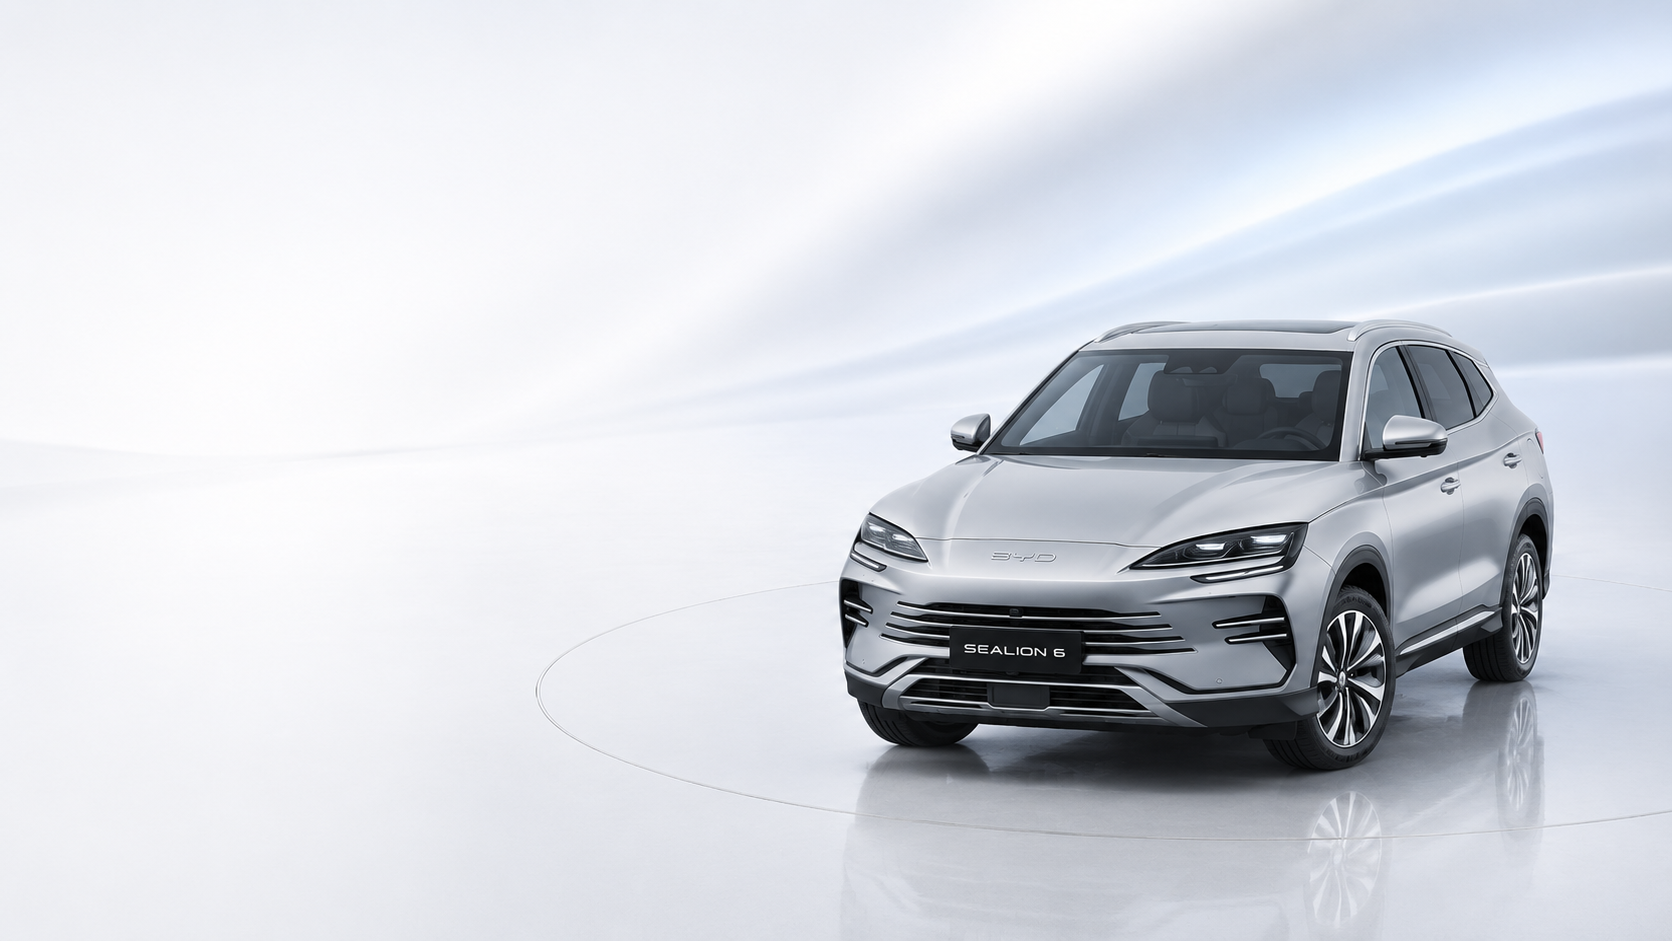
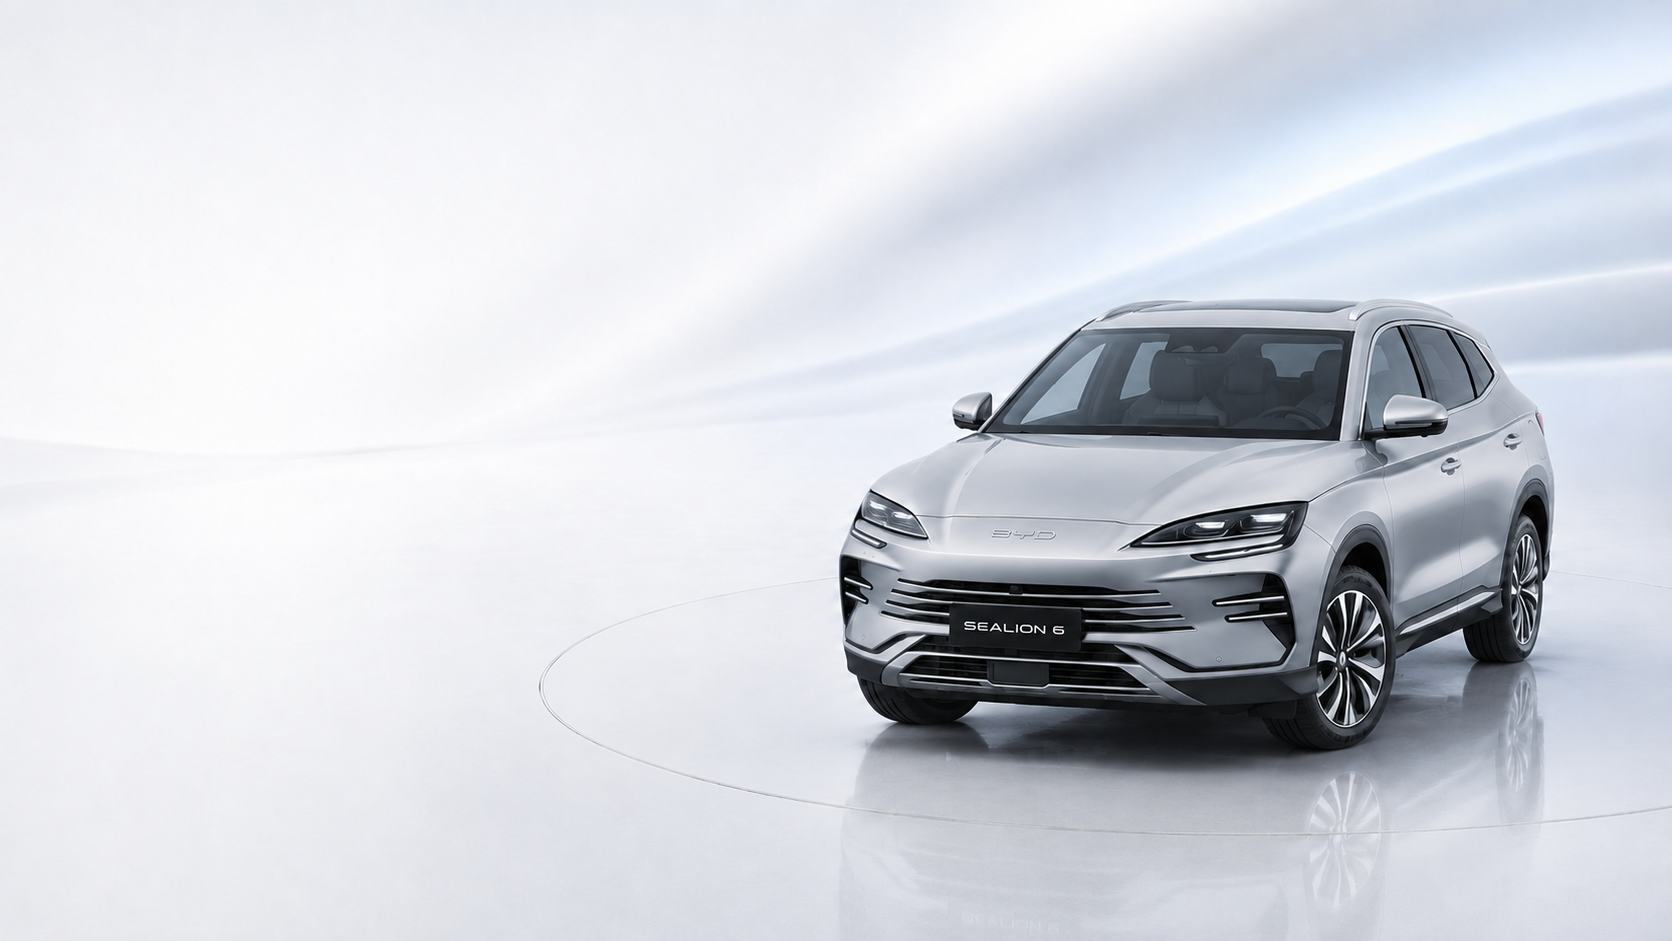
commit

Changed region(s): [[0.4976, 0.3082, 0.933, 0.8937]]

diff --git a/lib/main.dart b/lib/main.dart
@@ -475,9 +475,12 @@ Brightness _effectiveBrightnessForTheme(ThemeMode mode) {
 }
 
 void _showSystemBars() {
-  // BYD/DiLink draws its own black bar surface when the app stays edge-to-edge.
-  // Keep Android system bars visible in normal fitted mode so the real bar
-  // background can follow Light/Dark mode and the bottom dock is not covered.
+  // BYD/DiLink keeps its own top/bottom shell bars visible. Do NOT use
+  // edgeToEdge here: Flutter's edgeToEdge re-adds LAYOUT_FULLSCREEN /
+  // LAYOUT_HIDE_NAVIGATION flags after native code applies bar colors, and on
+  // the BYD head unit that leaves the OEM black bar surface in Light mode.
+  // Keep the overlays visible in manual mode; MainActivity owns the actual
+  // light/dark bar colors and icon flags.
   unawaited(
     SystemChrome.setEnabledSystemUIMode(
       SystemUiMode.manual,
@@ -499,6 +502,9 @@ void _applySystemBarsForTheme(ThemeMode mode) {
 
   SystemChrome.setSystemUIOverlayStyle(
     SystemUiOverlayStyle(
+      // BYD/DiLink does not always honor transparent bars in Light mode. Use an
+      // opaque theme-matched bar color, then Android light-bar flags make icons
+      // dark. This avoids the OEM black status bar while preserving layout.
       statusBarColor: dark ? const Color(0xFF070B12) : const Color(0xFFF1F5FA),
       statusBarIconBrightness: dark ? Brightness.light : Brightness.dark,
       statusBarBrightness: dark ? Brightness.dark : Brightness.light,
@@ -1903,40 +1909,43 @@ class _LauncherHomePageState extends State<_LauncherHomePage>
     return Scaffold(
       backgroundColor: Theme.of(context).scaffoldBackgroundColor,
       resizeToAvoidBottomInset: false,
-      body: MediaQuery.removePadding(
-        context: context,
-        removeTop: true,
-        removeBottom: true,
-        removeLeft: true,
-        removeRight: true,
-        child: Container(
-          width: double.infinity,
-          height: double.infinity,
-          // BYD/DiLink keeps a persistent system/control bar at the bottom.
-          // Only reserve the bottom inset. The top status/header bar is already
-          // outside the Flutter fitted area; adding viewPadding.top here creates
-          // the visible white strip under the OEM header in Light mode.
-          margin: EdgeInsets.only(
-            bottom: MediaQuery.viewPaddingOf(context).bottom,
+      body: Container(
+        width: double.infinity,
+        height: double.infinity,
+        decoration: BoxDecoration(
+          gradient: RadialGradient(
+            center: const Alignment(0.40, -0.25),
+            radius: 1.18,
+            colors: light
+                ? const [
+                    Color(0xFFFFFFFF),
+                    Color(0xFFF1F6FC),
+                    Color(0xFFDCE7F2),
+                  ]
+                : const [
+                    Color(0xFF202A38),
+                    Color(0xFF0B111A),
+                    Color(0xFF05070C),
+                  ],
           ),
-          decoration: BoxDecoration(
-            gradient: RadialGradient(
-              center: const Alignment(0.40, -0.25),
-              radius: 1.18,
-              colors: light
-                  ? const [
-                      Color(0xFFFFFFFF),
-                      Color(0xFFF1F6FC),
-                      Color(0xFFDCE7F2),
-                    ]
-                  : const [
-                      Color(0xFF202A38),
-                      Color(0xFF0B111A),
-                      Color(0xFF05070C),
-                    ],
+        ),
+        child: MediaQuery.removePadding(
+          context: context,
+          removeTop: true,
+          removeBottom: true,
+          removeLeft: true,
+          removeRight: true,
+          child: Padding(
+            // In edge-to-edge mode, reserve the visible BYD header/footer only
+            // for interactive content. The background container remains full
+            // screen, so Light mode does not create a white strip or get cut.
+            padding: EdgeInsets.only(
+              // In normal visible-system-bar mode, BYD/Android already places
+              // the Flutter surface below the top shell bar. Adding top padding
+              // again creates the white gap seen on the head unit.
+              bottom: MediaQuery.viewPaddingOf(context).bottom,
             ),
-          ),
-          child: Stack(
+            child: Stack(
             children: [
               Positioned.fill(
                 child: LayoutBuilder(
@@ -2099,8 +2108,9 @@ class _LauncherHomePageState extends State<_LauncherHomePage>
           ),
         ),
       ),
-    );
-  }
+    ),
+  );
+}
 
   void _handleTabChanged(_LauncherTab tab) {
     if (tab == _activeTab) return;

diff --git a/android/app/src/main/kotlin/com/kimkim/MainActivity.kt b/android/app/src/main/kotlin/com/kimkim/MainActivity.kt
@@ -1,8 +1,10 @@
 package com.kimkim
 
 import android.app.Activity
+import android.app.UiModeManager
 import android.content.Intent
 import android.content.ComponentName
+import android.content.res.Configuration
 import android.content.pm.PackageManager
 import android.provider.Settings
 import android.net.Uri
@@ -46,6 +48,9 @@ class MainActivity : FlutterActivity() {
     override fun onCreate(savedInstanceState: android.os.Bundle?) {
         super.onCreate(savedInstanceState)
         enableHomeComponentIfNeeded()
+        window.decorView.setOnSystemUiVisibilityChangeListener {
+            applyLauncherSystemUi()
+        }
         applyLauncherSystemUi()
     }
 
@@ -75,31 +80,62 @@ class MainActivity : FlutterActivity() {
         // Re-assert the latest launcher theme for a longer window so Light mode
         // survives OEM post-processing on the real head unit.
         systemUiHandler.post { applyLauncherSystemUiNow(dark) }
-        for (delay in listOf(80L, 250L, 900L, 1700L, 2600L)) {
+        for (delay in listOf(16L, 80L, 160L, 250L, 500L, 900L, 1700L, 2600L, 4200L, 6500L)) {
             systemUiHandler.postDelayed({ applyLauncherSystemUiNow(dark) }, delay)
         }
     }
 
+    private fun applyApplicationNightMode(dark: Boolean) {
+        // Some BYD/DiLink builds ignore Window.statusBarColor/navigationBarColor
+        // and choose the OEM top/bottom shell color from the app night-mode
+        // classification instead. Tell Android explicitly that this Activity is
+        // light/dark before re-applying the system bar colors.
+        if (android.os.Build.VERSION.SDK_INT >= android.os.Build.VERSION_CODES.S) {
+            try {
+                val uiModeManager = getSystemService(UiModeManager::class.java)
+                uiModeManager?.setApplicationNightMode(
+                    if (dark) UiModeManager.MODE_NIGHT_YES else UiModeManager.MODE_NIGHT_NO
+                )
+            } catch (_: Exception) {
+            }
+        }
+    }
+
     private fun applyLauncherSystemUiNow(dark: Boolean) {
-        val barOverlayColor = if (dark) {
+        applyApplicationNightMode(dark)
+        val transparent = android.graphics.Color.TRANSPARENT
+        val barColor = if (dark) {
+            android.graphics.Color.rgb(0x07, 0x0B, 0x12)
+        } else {
+            // Use pure white, not a semi-transparent/near-white color. Some
+            // BYD/DiLink builds ignore translucent or edge-to-edge bar colors
+            // and fall back to their black shell surface.
+            android.graphics.Color.WHITE
+        }
+        val backgroundColor = if (dark) {
             android.graphics.Color.rgb(0x07, 0x0B, 0x12)
         } else {
             android.graphics.Color.rgb(0xF1, 0xF5, 0xFA)
         }
-        val transparent = android.graphics.Color.TRANSPARENT
 
-        // BYD/DiLink keeps an OEM bar surface active if the launcher runs
-        // edge-to-edge. Use fitted visible system bars with an opaque launcher
-        // color so Light mode does not leave black top/bottom bars.
         window.clearFlags(
             WindowManager.LayoutParams.FLAG_FULLSCREEN or
                 WindowManager.LayoutParams.FLAG_TRANSLUCENT_STATUS or
                 WindowManager.LayoutParams.FLAG_TRANSLUCENT_NAVIGATION
         )
         window.addFlags(WindowManager.LayoutParams.FLAG_DRAWS_SYSTEM_BAR_BACKGROUNDS)
+        window.decorView.setBackgroundColor(backgroundColor)
+        if (android.os.Build.VERSION.SDK_INT >= android.os.Build.VERSION_CODES.Q) {
+            window.decorView.isForceDarkAllowed = false
+        }
 
-        window.statusBarColor = barOverlayColor
-        window.navigationBarColor = barOverlayColor
+        // Critical difference from the previous edge-to-edge build:
+        // do not set LAYOUT_FULLSCREEN / LAYOUT_HIDE_NAVIGATION. Those flags let
+        // Flutter draw under the BYD shell bars, but the shell bars themselves
+        // remain black. In normal visible-overlay mode Android can actually use
+        // the statusBarColor/navigationBarColor values below.
+        window.statusBarColor = barColor
+        window.navigationBarColor = barColor
 
         if (android.os.Build.VERSION.SDK_INT >= android.os.Build.VERSION_CODES.P) {
             window.navigationBarDividerColor = transparent
@@ -110,7 +146,11 @@ class MainActivity : FlutterActivity() {
             window.isNavigationBarContrastEnforced = false
         }
 
-        var flags = View.SYSTEM_UI_FLAG_LAYOUT_STABLE
+        if (android.os.Build.VERSION.SDK_INT >= android.os.Build.VERSION_CODES.R) {
+            window.setDecorFitsSystemWindows(true)
+        }
+
+        var flags = View.SYSTEM_UI_FLAG_VISIBLE
         if (!dark && android.os.Build.VERSION.SDK_INT >= android.os.Build.VERSION_CODES.M) {
             flags = flags or View.SYSTEM_UI_FLAG_LIGHT_STATUS_BAR
         }
@@ -120,15 +160,13 @@ class MainActivity : FlutterActivity() {
         window.decorView.systemUiVisibility = flags
 
         if (android.os.Build.VERSION.SDK_INT >= android.os.Build.VERSION_CODES.R) {
-            window.setDecorFitsSystemWindows(true)
             window.insetsController?.let { controller ->
-                controller.show(WindowInsets.Type.systemBars())
+                controller.show(WindowInsets.Type.statusBars() or WindowInsets.Type.navigationBars())
 
                 val lightAppearance =
                     WindowInsetsController.APPEARANCE_LIGHT_STATUS_BARS or
                         WindowInsetsController.APPEARANCE_LIGHT_NAVIGATION_BARS
                 val appearance = if (dark) 0 else lightAppearance
-
                 controller.setSystemBarsAppearance(appearance, lightAppearance)
             }
         }